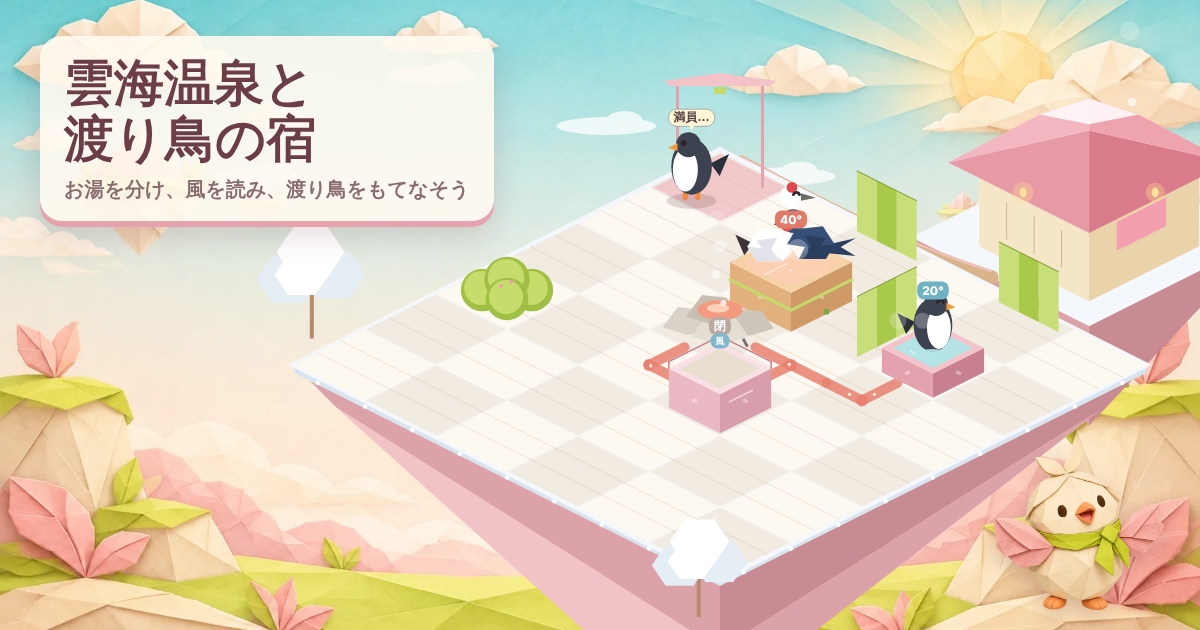
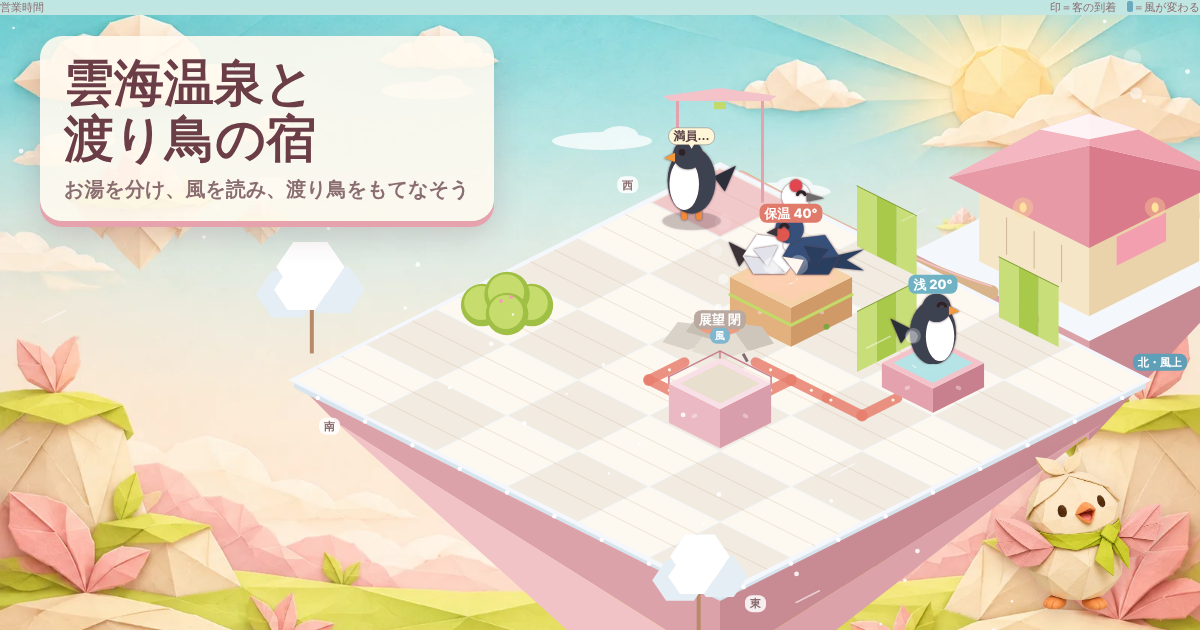
[GAME] 雲海温泉と渡り鳥の宿（試作）：初見テストの迷いを直す（手引きの光る枠、風よけの予告、結果の誤タップ防止）
Claude-Session: https://claude.ai/code/session_01MokQnqeGAW27dHqRdJBqfo

diff --git a/site/games/cloudspring-bird-inn/game.js b/site/games/cloudspring-bird-inn/game.js
@@ -246,7 +246,7 @@ function tapCell(x, y) {
   if (ui.mode) { modeTap(x, y); return; }
   const it = itemAt(s, x, y);
   ui.selGuest = 0; pending = null; panelMsg = '';
-  if (it) { ui.sel = it.id; ui.cursor = [x, y]; sfx.paper(); }
+  if (it) { ui.sel = it.id; ui.cursor = [x, y]; sfx.paper(); setTimeout(() => { const v = document.querySelector('.valve, .panel .btnrow'); const r = v?.getBoundingClientRect(); if (r && r.bottom > window.innerHeight) window.scrollBy({ top: r.bottom - window.innerHeight + 16 }); }, 0); }
   else { ui.sel = 0; ui.cursor = [x, y]; }
   updateGuide();
   refreshAll();
@@ -362,7 +362,8 @@ function refreshAll() {
   const w0 = windAt(s); const w1 = s.wind1;
   const soon = s.t < TUNE.windShiftAt && s.wind0 !== s.wind1;
   const warn = soon && s.t >= TUNE.windShiftAt - TUNE.windWarn && s.phase === 'open';
-  if (warn && !warnedWind) { warnedWind = true; toast(`あと${TUNE.windShiftAt - s.t}秒で${DIR_NAMES[w1]}風に変わる！ 風よけと弁を見直そう`); }
+  const anyone = s.guests.some((g) => g.st !== 'gone');
+  if (warn && !warnedWind && anyone) { warnedWind = true; toast(s.strong ? `あと${TUNE.windShiftAt - s.t}秒で${DIR_NAMES[w1]}風に変わる！ 風よけと弁を見直そう` : `あと${TUNE.windShiftAt - s.t}秒で${DIR_NAMES[w1]}風に。湯気の流れる向きが変わる`); }
   $('wind').className = `wind${warn ? ' warn' : ''}`;
   $('wind').innerHTML = `<span class="arrow" style="transform:rotate(${windAngle(w0)}deg)">➜</span><br>${DIR_NAMES[w0]}風${s.strong ? '<span class="strong">・強</span>' : ''}${soon ? `<br><small>${TUNE.windShiftAt}秒〜${DIR_NAMES[w1]}風</small>` : ''}`;
   // 次の客
@@ -450,6 +451,9 @@ function renderPanel() {
         const mm = ui.ghostM[it.id];
         body += `<div class="factors">${factorHTML('温度', mm.on ? 1 : 0, mm.on ? `${mm.T}度${mm.exposed ? '（風−5）' : ''}` : '湯なし')}${factorHTML('風', mm.exposed ? 0 : 1, mm.exposed ? 'さらされる' : '守られている')}${factorHTML('景色', mm.view, mm.view ? '見える' : mm.steamBy ? '湯気' : 'ふさがれる')}</div>`;
         if (!mm.supplied) body += '<p class="err">ここは源泉・管とつながらない（湯が出ない）</p>';
+      } else if (it.type === 'windbreak') {
+        const [dx, dy] = DIRS[it.dir]; const t = pv2(it.x - dx, it.y - dy);
+        body += `<p class="why">${DIR_NAMES[it.dir]}向き：${t ? `すぐ後ろの「${t}」を${DIR_NAMES[it.dir]}風から守る` : '後ろに浴槽がないので、今の向きでは何も守らない（置いた後に回せる）'}</p>`;
       }
       const cost = ui.mode.op === 'build' ? FACILITIES[ui.mode.type].cost : 0;
       body += `<div class="btnrow"><button type="button" id="pOk" class="on">ここに決める${cost ? `（${cost}）` : ''}</button><button type="button" id="pNo">やめる</button></div>`;
@@ -537,6 +541,8 @@ function renderPanel() {
   p.innerHTML = `<h3>${s.phase === 'prep' ? '準備中' : s.phase === 'done' ? '閉店' : paused ? '一時停止中' : '営業中'}</h3><p class="muted">${tip}</p>${err}`;
 }
 
+function pv2(x, y) { const t = itemAt(s, x, y); return t && isBath(t) ? labelOf(t) : null; }
+
 function buildDesc(t) {
   return { bath: '2席', hot: '2席・+5度', shallow: '1席・−5度', view: '1席・風よけ越しに景色', windbreak: '強風を止める', fence: '隣の声を−1' }[t] || '';
 }
@@ -568,6 +574,7 @@ function showResult() {
   if (sm.cleared && !DAYS[ni]) $('resMoney').insertAdjacentHTML('beforeend', '<br><b>試作はここまで。遊んでくれてありがとう！</b>');
   if (sm.cleared && sm.good < sm.n) $('resMoney').insertAdjacentHTML('beforeend', '<br>全員満足を目指すなら：不満の理由（お湯・声・景色）を見て、風よけや配置を見直そう。');
   $('toast').hidden = true; $('banner').hidden = true;
+  bb.querySelectorAll('button').forEach((b) => { b.disabled = true; setTimeout(() => { b.disabled = false; }, 800); });
   $('result').showModal();
 }
 

diff --git a/site/games/cloudspring-bird-inn/render.js b/site/games/cloudspring-bird-inn/render.js
@@ -556,9 +556,10 @@ export function draw(ctx, L, s, ui) {
   drawWind(ctx, L, s, time, ui.calm);
   drawCompass(ctx, L, s);
   if (season === 'winter' && !ui.calm) drawSnow(ctx, L, time);
-  if (ui.point) { // 手引きの矢印
+  if (ui.point) { // 手引きの矢印と、光る枠
     const [cx, cy] = toScreen(L, ui.point[0], ui.point[1]);
-    const yy = cy - L.TH * 1.9 - Math.abs(Math.sin(time * 4)) * 8;
+    ctx.save(); ctx.strokeStyle = `rgba(111,168,58,${0.6 + 0.4 * Math.sin(time * 6)})`; ctx.lineWidth = 4; diamond(ctx, cx, cy - L.TH * 0.45, L.TW * 0.5, L.TH * 0.5); ctx.stroke(); ctx.restore();
+    const yy = cy - L.TH * 2.4 - Math.abs(Math.sin(time * 4)) * 8;
     ctx.fillStyle = '#6fa83a'; ctx.strokeStyle = '#fff'; ctx.lineWidth = 3;
     ctx.beginPath(); ctx.moveTo(cx, yy + 16); ctx.lineTo(cx - 12, yy); ctx.lineTo(cx - 5, yy); ctx.lineTo(cx - 5, yy - 12); ctx.lineTo(cx + 5, yy - 12); ctx.lineTo(cx + 5, yy); ctx.lineTo(cx + 12, yy); ctx.closePath(); ctx.stroke(); ctx.fill();
   }
